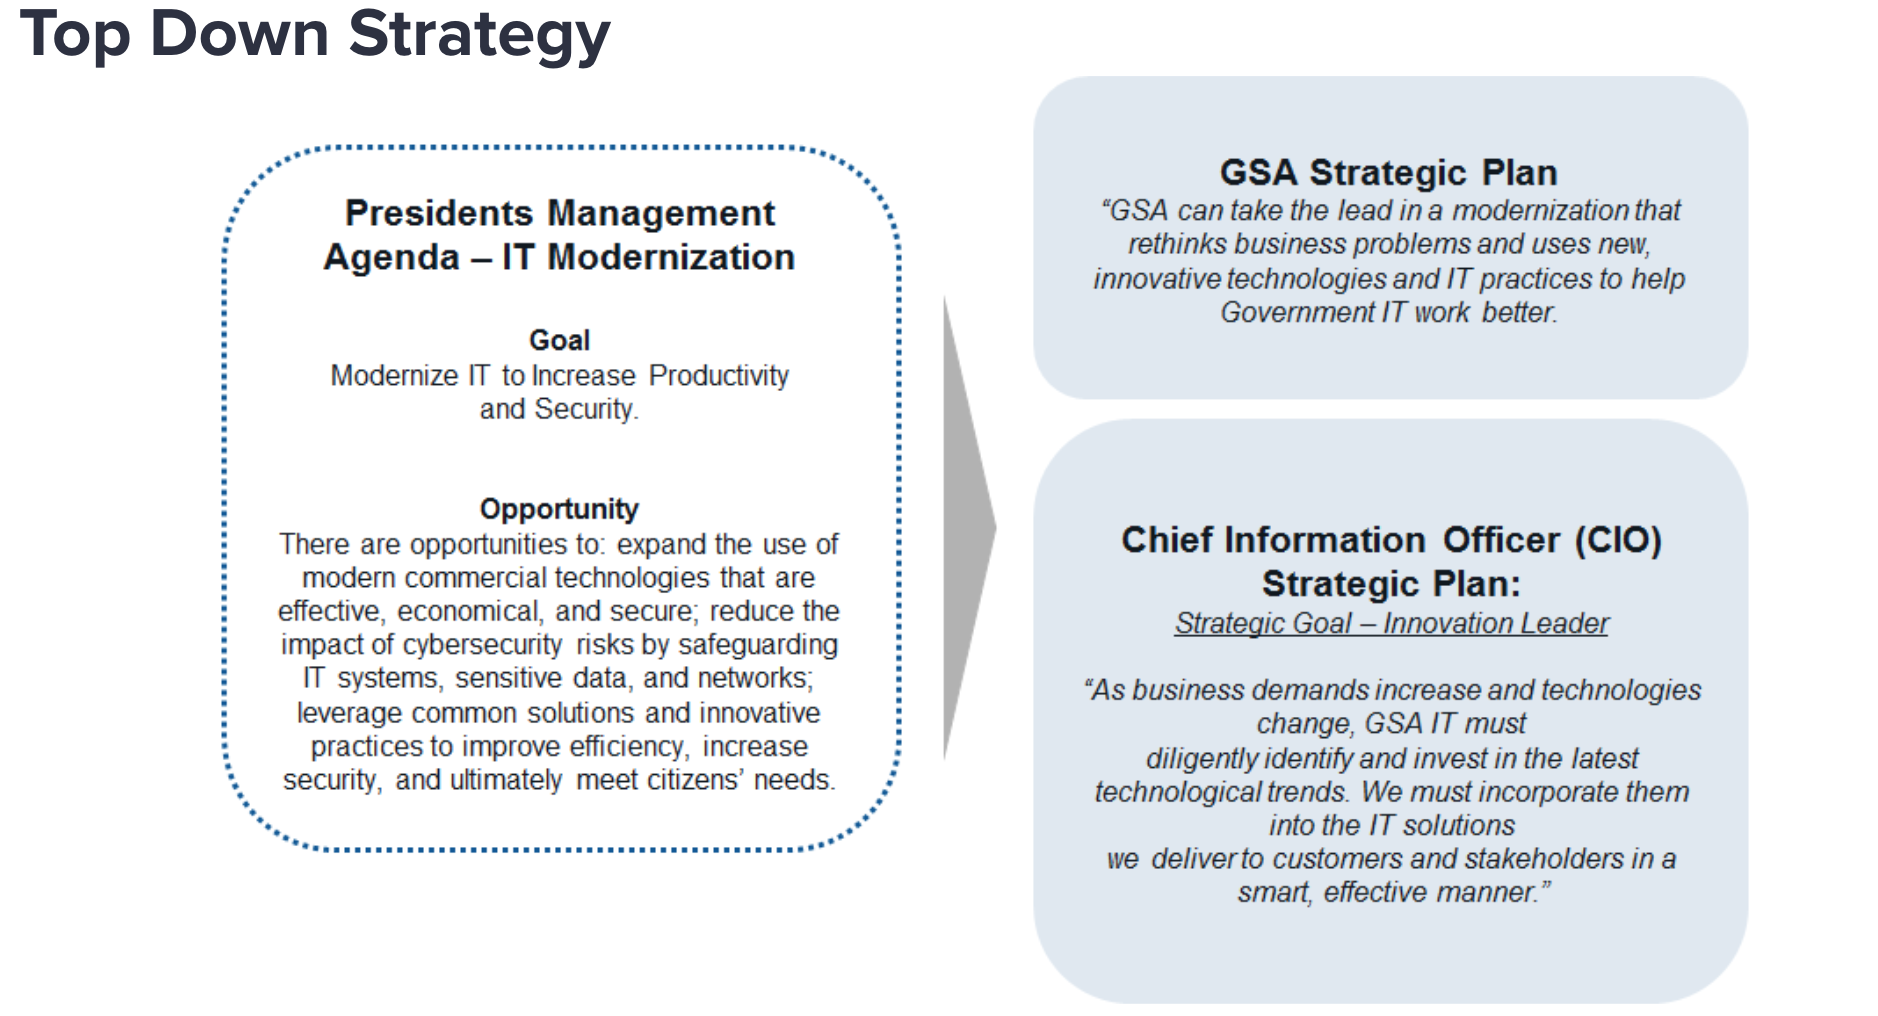
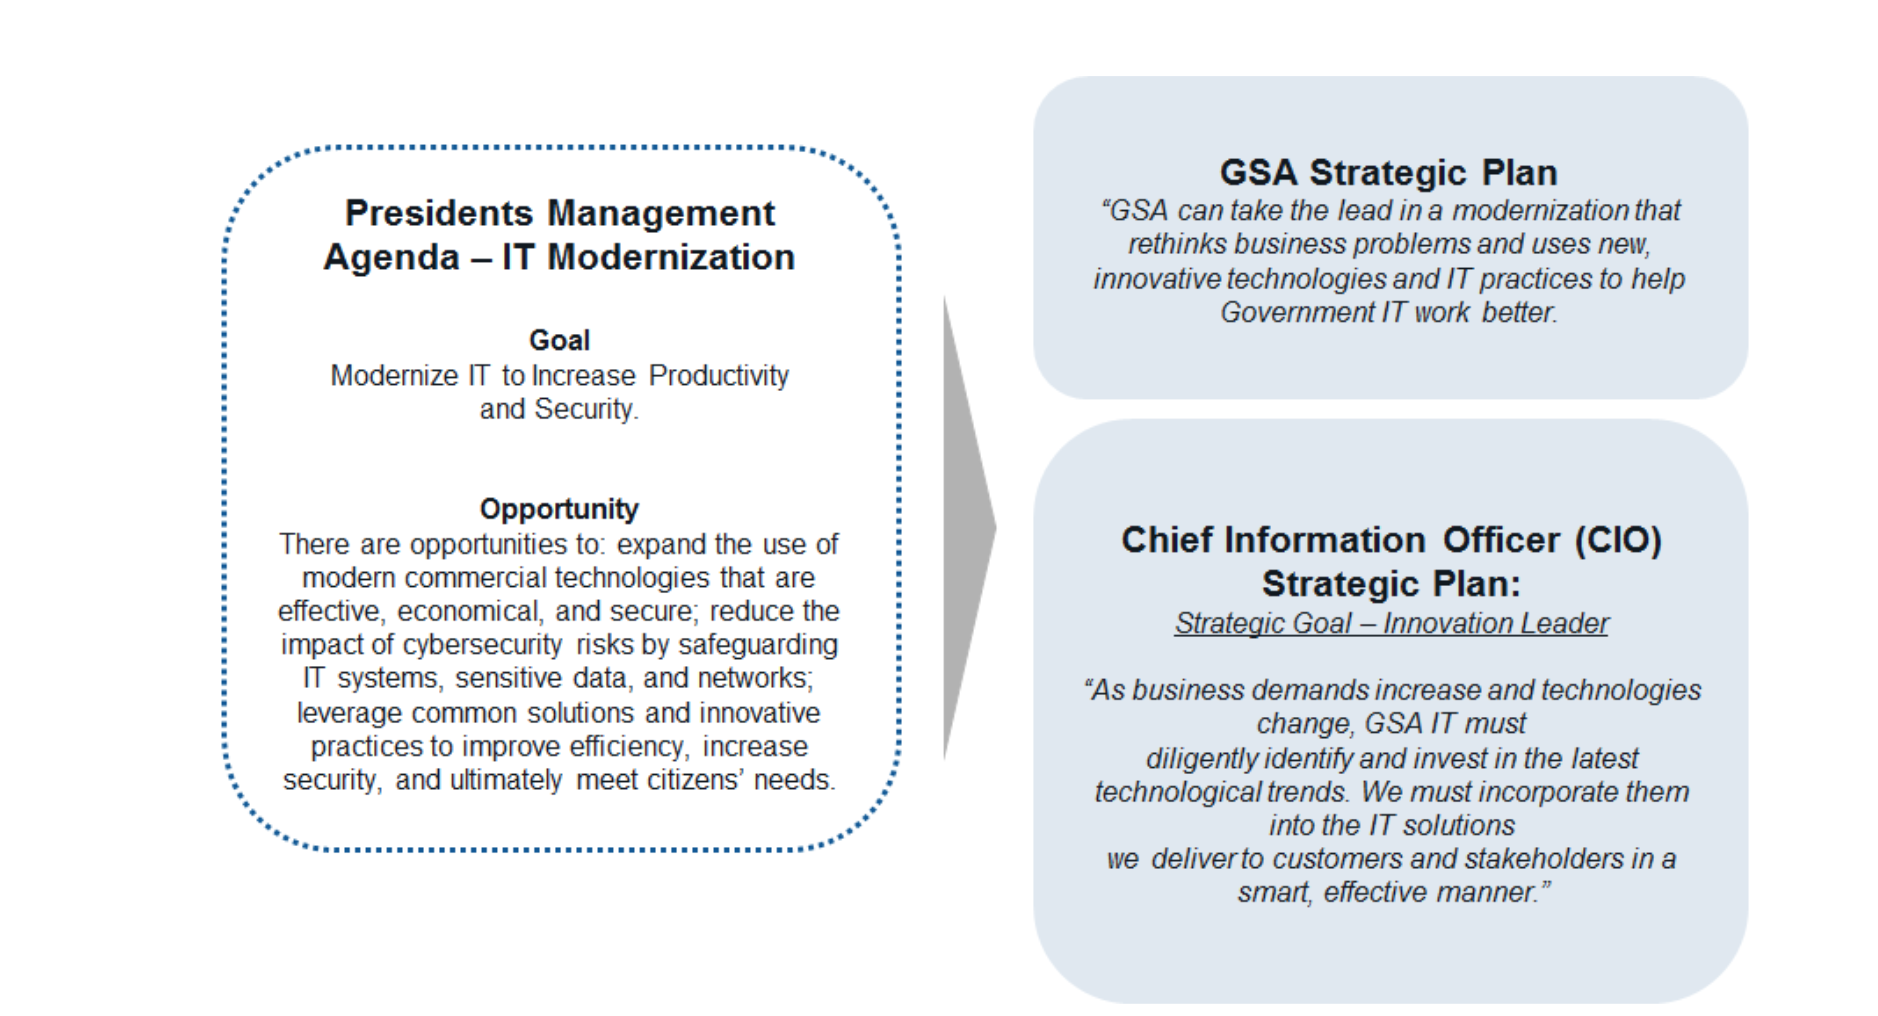
Rearrange sections

Changed region(s): [[0.0, 0.0, 0.3397, 0.061]]

diff --git a/_playbooks/rpa.md b/_playbooks/rpa.md
@@ -10,8 +10,8 @@ toc: true
 
 **Robotic Process Automation (RPA)** is a business process automation technology that automates manual tasks that are largely **rules based, structured and repetitive** using software robots, also known as **bots**. A RPA tool maps a process for a robot to follow which allows the bot to operate in place of a human.
 
-## GSA RPA Bots
-The General Services Administration has made the **code accessible through GitHub** for those looking to get started or learn more about RPA. The code powers a few of GSA’s bots that are currently being used by various teams.
+RPA aligns to the President's agenda goals for IT Modernization (shown below). 
+<img src="{{ site.baseurl }}/assets/img/rpa/rpa-top-down-strategy.png">
 
 ## Why RPA?
 
@@ -24,14 +24,19 @@ RPA enables employees to spend less time on routine tasks and focus more on chal
 
 RPA also aligns with the President's Management Agenda (PMA) for IT Modernization. 
 
-<img src="{{ site.baseurl }}/assets/img/rpa/rpa-top-down-strategy.png">
-
-## RPA Guide
-
-U.S. General Services Administration (GSA) has worked with the Office of the Chief Finance Officer (OCFO) to develop a RPA guide that sets standards and best practices that RPA teams should use when implementing RPA. 
-
 ## RPA Community of Practice
 
 [RPA Community of Practice (CoP)](https://digital.gov/communities/rpa/) is a government-wide initiative led by GSA's OCFO and Technology Transformation Services (TTS) to facilitate collaboration and problem solving between federal agencies that are interested in implementing RPA. The CoP shares information and resources and provides guidance for RPA implementation and operations. Government employees can join the FedRPA CoP by sending an email to [FedRPA-subscribe-request@listserv.gsa.gov](mailto:FedRPA-subscribe-request@listserv.gsa.gov). 
+
+## Resources 
+
+### RPA Guide
+
+U.S. General Services Administration (GSA) has worked with the Office of the Chief Finance Officer (OCFO) to develop a **RPA guide that sets standards and best practices** that RPA teams should use when implementing RPA. 
+- [RPA Guide](hyperlink)
+
+### GSA RPA Bots
+The General Services Administration has made the **code accessible through GitHub** for those looking to get started or learn more about RPA. The code powers a few of GSA’s bots that are currently being used by various teams.
+- [GSA RPA GitHub Repo](hyperlink)
 
 
